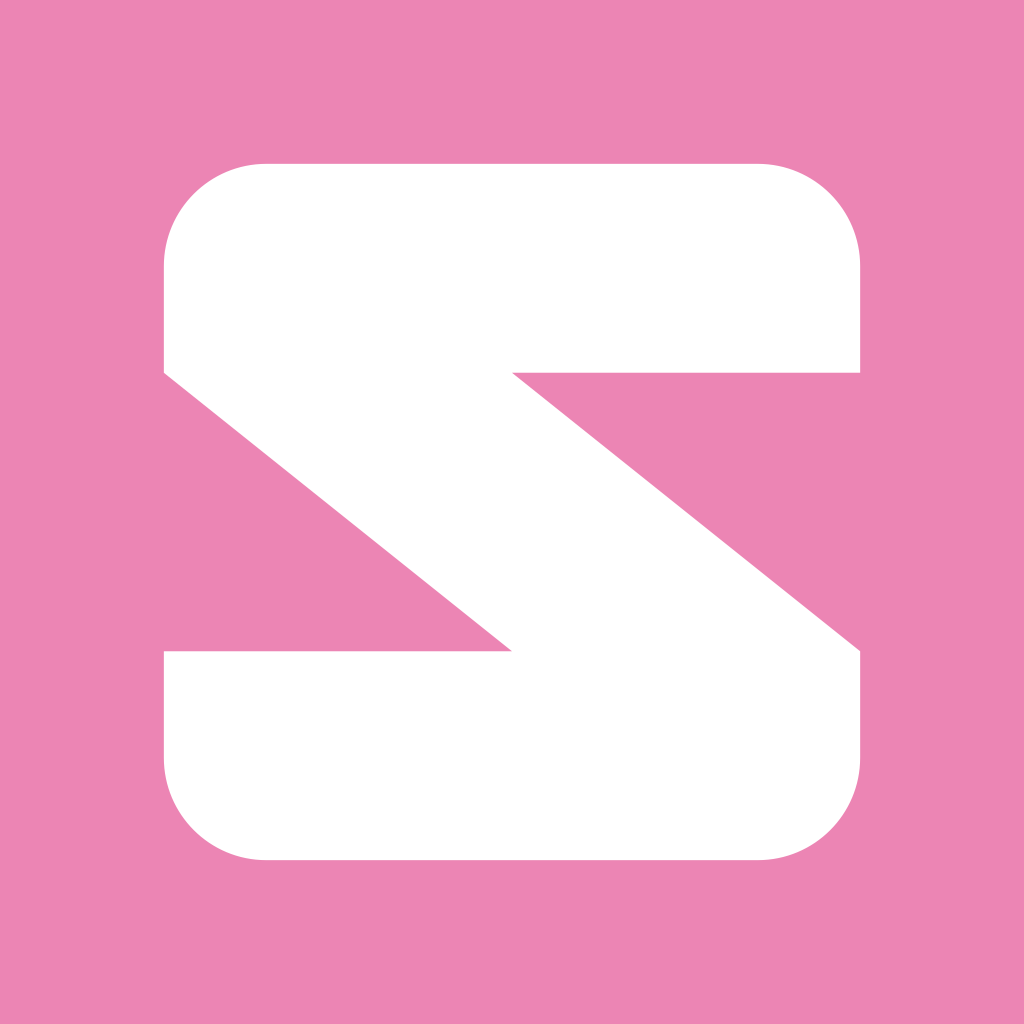
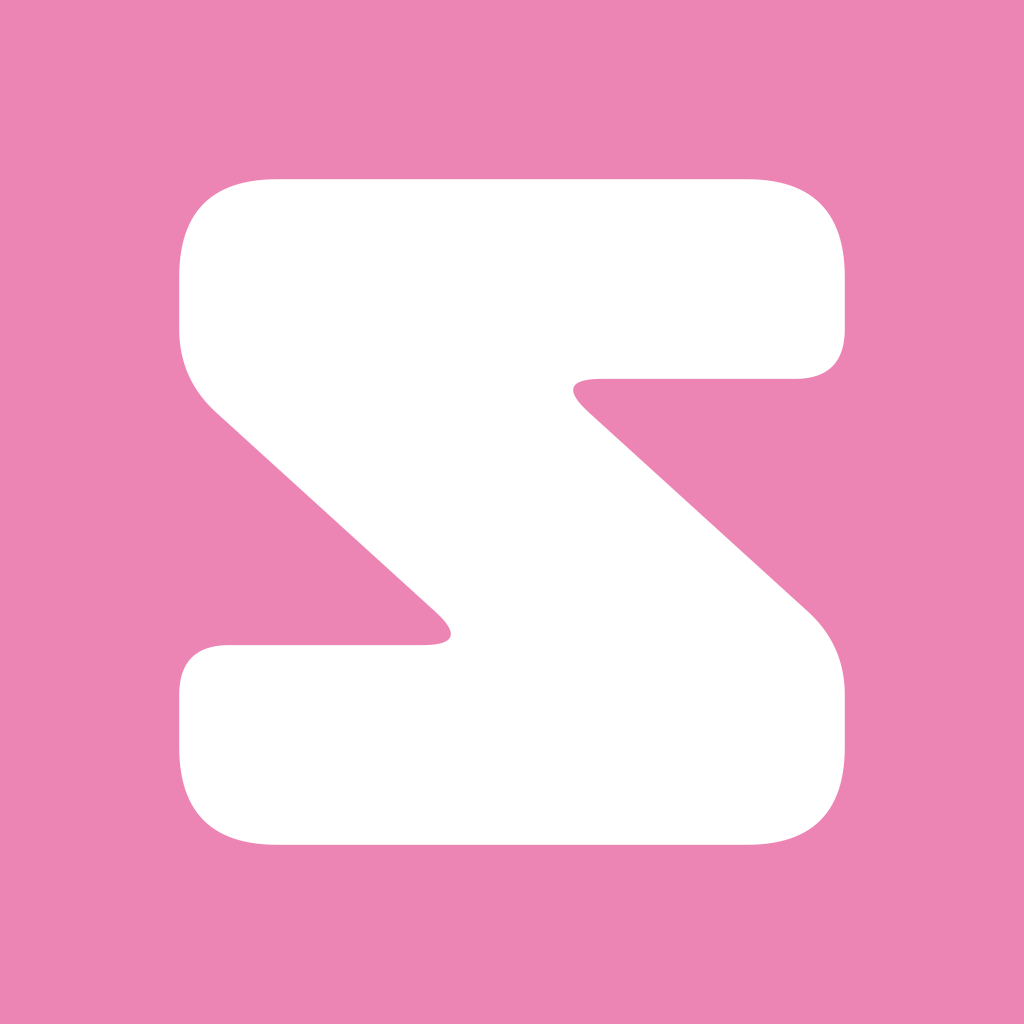
Smaller counters on the mark, and soften every corner
Two changes, both the owner's.

**The triangles shrink.** The slash goes from 0.50 to 0.56 of the width,
which is what the two triangular counters are cut out of. Rendered at
0.36 / 0.43 / 0.50 / 0.56 / 0.62: below 0.43 the letter is two bars joined
by a hairline, and past 0.56 the counters close up and it becomes a
lozenge, so 0.56 is the far end of what still reads as an S.

**Every corner rounds now, not just the outer four.** The interior angles
were knife-sharp on the rule that a block has no rounded inside corners.
That is true of a block and not of a letter cut from one: the two places
where the slash meets a bar are acute enough that a sharp point reads as a
rendering artefact rather than as a drawn edge. They take about half the
outer radius — enough to soften, not enough to lose the structure.

That needed a per-vertex radius and a clamp. Trimming a corner back by
more than half of either adjacent edge turns it inside out, and the acute
joins are exactly where that happens; the clamp is what lets them round at
all. Both the generator and `StrataMarkShape` apply it, and both sample the
same quadratic, so the SVGs, the app icon and the drawn shape stay one
drawing.

Restored `svg()`, which an earlier slice edit had deleted along with the
block it was replacing — the generator had been writing SVGs from a
function that no longer existed until this commit's first run caught it.

Verified: Debug, Release and generic/platform=iOS build; 74 unit tests
[…]

diff --git a/Strata/Views/StrataMark.swift b/Strata/Views/StrataMark.swift
@@ -3,8 +3,8 @@ import SwiftUI
 /// The Strata mark: a blocky S, cut from a rounded square.
 ///
 /// Two bars and a slash, in the same geometry the tower is built from — the
-/// outer corners take `BlockSurface`'s own 14.7% radius and every interior
-/// angle is a straight cut, because a block has no rounded inside corners.
+/// outer corners take `BlockSurface`'s own 14.7% radius and the interior
+/// angles take about half of it.
 ///
 /// **It is drawn, not shipped as an image.** The vector is generated by
 /// `tools/make_logo.py`, which also writes `brand/strata-mark*.svg` for
@@ -12,12 +12,17 @@ import SwiftUI
 /// `--swift` to update the constants below; do not edit them by hand.
 ///
 /// The proportions were chosen by rendering the slash at 0.36 / 0.43 / 0.50 /
-/// 0.57 and looking: below 0.43 the letter reads as two bars joined by a
-/// hairline, above 0.50 the counters close and it turns into a lozenge.
+/// 0.56 / 0.62 and looking: below 0.43 the letter reads as two bars joined by
+/// a hairline; past 0.56 the counters close and it turns into a lozenge.
+///
+/// **The interior angles round too**, at about half the outer radius. They
+/// were knife-sharp on the rule that a block has no rounded inside corners —
+/// true of a block, and not true of a letter cut from one, where the two
+/// acute corners came to points sharp enough to read as a rendering artefact
+/// rather than as a drawn edge.
 struct StrataMarkShape: Shape {
     func path(in rect: CGRect) -> Path {
         let side = min(rect.width, rect.height)
-        let radius = side * StrataMarkShape.cornerRatio
         let pts = StrataMarkShape.outline.map {
             CGPoint(x: rect.minX + $0.x * side, y: rect.minY + $0.y * side)
         }
@@ -27,15 +32,17 @@ struct StrataMarkShape: Shape {
         for (i, p) in pts.enumerated() {
             let prev = pts[(i - 1 + pts.count) % pts.count]
             let next = pts[(i + 1) % pts.count]
-            guard StrataMarkShape.roundedCorners.contains(i) else {
+            let radius = Self.radius(at: i, point: p, prev: prev, next: next, side: side)
+            guard radius > 0 else {
                 if started { path.addLine(to: p) } else { path.move(to: p); started = true }
                 continue
             }
-            // Trim back along both edges, then round between them. Same
-            // construction as the SVG, so the two cannot drift.
+            // Trim back along both edges, then round between them. The same
+            // quadratic the generator samples, so the Swift shape, the SVGs
+            // and the app icon are one drawing.
             func stepped(_ from: CGPoint, toward: CGPoint) -> CGPoint {
                 let dx = toward.x - from.x, dy = toward.y - from.y
-                let d = max(sqrt(dx * dx + dy * dy), 0.0001)
+                let d = max(hypot(dx, dy), 0.0001)
                 return CGPoint(x: from.x + dx / d * radius, y: from.y + dy / d * radius)
             }
             let a = stepped(p, toward: prev)
@@ -47,18 +54,35 @@ struct StrataMarkShape: Shape {
         return path
     }
 
+    /// The radius a corner can actually take.
+    ///
+    /// Trimming back by more than half of either adjacent edge turns the
+    /// corner inside out, and the slash meets the bars at a very acute angle —
+    /// this clamp is what lets the interior corners round at all.
+    private static func radius(at index: Int, point: CGPoint,
+                               prev: CGPoint, next: CGPoint, side: CGFloat) -> CGFloat {
+        let wanted = cornerRadii[index] * side
+        let a = hypot(point.x - prev.x, point.y - prev.y)
+        let b = hypot(point.x - next.x, point.y - next.y)
+        return min(wanted, a * 0.5, b * 0.5)
+    }
+
     // Generated by tools/make_logo.py --swift. Do not hand-edit.
     /// The mark's outline in a unit square, y DOWN.
     static let outline: [CGPoint] = [
         CGPoint(x: 0.0000, y: 0.0000), CGPoint(x: 1.0000, y: 0.0000), CGPoint(x: 1.0000, y: 0.3000),
-        CGPoint(x: 0.5000, y: 0.3000), CGPoint(x: 1.0000, y: 0.7000), CGPoint(x: 1.0000, y: 1.0000),
-        CGPoint(x: 0.0000, y: 1.0000), CGPoint(x: 0.0000, y: 0.7000), CGPoint(x: 0.5000, y: 0.7000),
+        CGPoint(x: 0.5600, y: 0.3000), CGPoint(x: 1.0000, y: 0.7000), CGPoint(x: 1.0000, y: 1.0000),
+        CGPoint(x: 0.0000, y: 1.0000), CGPoint(x: 0.0000, y: 0.7000), CGPoint(x: 0.4400, y: 0.7000),
         CGPoint(x: 0.0000, y: 0.3000)
     ]
-    /// Which vertices round — the four outer corners only.
-    static let roundedCorners: Set<Int> = [0, 1, 5, 6]
-    /// The block's corner radius, as a fraction of the side.
-    static let cornerRatio: CGFloat = 0.147
+    /// One wanted radius per vertex, as a fraction of the side.
+    /// The outer corners take the block's ratio; the interior
+    /// angles take a smaller one, so the counters read as cut
+    /// rather than as knife points.
+    static let cornerRadii: [CGFloat] = [
+        0.1470, 0.1470, 0.0750, 0.0750, 0.0750,
+        0.1470, 0.1470, 0.0750, 0.0750, 0.0750
+    ]
 }
 
 /// The app's mark, at a size.

diff --git a/tools/make_logo.py b/tools/make_logo.py
@@ -44,12 +44,19 @@ OUT = os.path.join(ROOT, "brand")
 # first attempt did that and produced a Z, because a wedge that tapers to a
 # point leaves the two bars joined by a hairline.
 BAR = 0.300          # bar height, top and bottom
-SLASH = 0.500        # the slash's HORIZONTAL thickness
-                     # Chosen by rendering 0.36 / 0.43 / 0.50 / 0.57 side by
-                     # side: below 0.43 the slash reads as a hairline joining
-                     # two bars, above 0.50 the counters start closing and the
-                     # letter turns into a solid lozenge.
+SLASH = 0.560        # the slash's HORIZONTAL thickness
+                     # Rendered at 0.36 / 0.43 / 0.50 / 0.56 / 0.62 side by
+                     # side. Below 0.43 the slash reads as a hairline joining
+                     # two bars; at 0.50 the two triangular counters were
+                     # bigger than the owner wanted; past 0.56 they close up
+                     # and the letter turns into a lozenge.
 RADIUS = 0.147       # the block's corner radius, as a fraction of the side
+INNER_RADIUS = 0.075 # every interior angle
+                     # The interior angles used to be knife-sharp, on the rule
+                     # that a block has no rounded inside corners. True of a
+                     # block; not true of a letter cut from one, where the two
+                     # acute corners where the slash meets the bars came to
+                     # points sharp enough to look like a rendering artefact.
 
 
 def mark_points():
@@ -73,70 +80,43 @@ def mark_points():
     return pts, {0, 1, 5, 6}
 
 
-def rounded_path(points, radius, round_only):
-    """An SVG path, rounding only the vertices named in `round_only`."""
-    n = len(points)
-    out = []
-    for i, p in enumerate(points):
-        prev = points[(i - 1) % n]
-        nxt = points[(i + 1) % n]
-        if i not in round_only:
-            out.append(("L", p))
-            continue
-        # Trim back along both edges by `radius`, then arc between.
-        def unit(a, b):
-            dx, dy = b[0] - a[0], b[1] - a[1]
-            d = math.hypot(dx, dy) or 1.0
-            return (dx / d, dy / d)
-        ui = unit(p, prev)
-        uo = unit(p, nxt)
-        a = (p[0] + ui[0] * radius, p[1] + ui[1] * radius)
-        b = (p[0] + uo[0] * radius, p[1] + uo[1] * radius)
-        out.append(("L", a))
-        out.append(("A", (radius, b)))
-    # Emit.
-    d = []
-    first = out[0]
-    d.append(f"M {first[1][0]:.5f} {first[1][1]:.5f}")
-    for kind, val in out[1:]:
-        if kind == "L":
-            d.append(f"L {val[0]:.5f} {val[1]:.5f}")
-        else:
-            r, b = val
-            d.append(f"A {r:.5f} {r:.5f} 0 0 1 {b[0]:.5f} {b[1]:.5f}")
+def rounded_path(points, radii):
+    """An SVG path, rounding each vertex by its own radius."""
+    flat = rounded_polygon(points, radii)
+    d = [f"M {flat[0][0]:.5f} {flat[0][1]:.5f}"]
+    for x, y in flat[1:]:
+        d.append(f"L {x:.5f} {y:.5f}")
     d.append("Z")
     return " ".join(d)
 
 
-def svg(size=512, ink="#EC85B4", ground="#FFFFFF", padding=0.16):
-    pts, outer = mark_points()
-    # Only the four OUTER corners round. Every inner vertex is a cut face,
-    # and a block has no rounded interior angles.
-    path = rounded_path(pts, RADIUS, outer)
-    scale = size * (1 - 2 * padding)
-    off = size * padding
-    return f'''<svg xmlns="http://www.w3.org/2000/svg" width="{size}" height="{size}" viewBox="0 0 {size} {size}">
-  <rect width="{size}" height="{size}" fill="{ground}"/>
-  <g transform="translate({off:.3f} {off:.3f}) scale({scale:.5f})">
-    <path d="{path}" fill="{ink}" fill-rule="nonzero"/>
-  </g>
-</svg>
-'''
+def _corner_radius(p, prev, nxt, wanted):
+    """A radius the corner can actually take.
+
+    Trimming back by more than half of either adjacent edge turns the corner
+    inside out. The slash meets the bars at a very acute angle, so this clamp
+    is what lets the interior corners round at all.
+    """
+    a = math.hypot(p[0] - prev[0], p[1] - prev[1])
+    b = math.hypot(p[0] - nxt[0], p[1] - nxt[1])
+    return min(wanted, a * 0.5, b * 0.5)
 
 
-def rounded_polygon(points, radius, round_only, steps=24):
+def rounded_polygon(points, radii, steps=28):
     """The outline as a flat point list, arcs sampled.
 
-    One polygon, so a rasteriser needs nothing but `polygon()`. The first
-    attempt at this painted the ground back into each corner and laid a disc
-    over the inside, which put four pink circles OUTSIDE the letter — a
-    reminder that "cheaper than deriving the arc" usually is not.
+    `radii` is one wanted radius per vertex; 0 leaves the corner sharp. One
+    polygon out, so a rasteriser needs nothing but `polygon()`. An earlier
+    attempt painted the ground back into each corner and laid a disc over the
+    inside, which put four pink circles OUTSIDE the letter — "cheaper than
+    deriving the arc" usually is not.
     """
     n = len(points)
     out = []
     for i, p in enumerate(points):
         prev, nxt = points[(i - 1) % n], points[(i + 1) % n]
-        if i not in round_only:
+        r = _corner_radius(p, prev, nxt, radii[i])
+        if r <= 0:
             out.append(p)
             continue
 
@@ -146,8 +126,8 @@ def rounded_polygon(points, radius, round_only, steps=24):
             return (dx / d, dy / d)
 
         ui, uo = unit(p, prev), unit(p, nxt)
-        a_pt = (p[0] + ui[0] * radius, p[1] + ui[1] * radius)
-        b_pt = (p[0] + uo[0] * radius, p[1] + uo[1] * radius)
+        a_pt = (p[0] + ui[0] * r, p[1] + ui[1] * r)
+        b_pt = (p[0] + uo[0] * r, p[1] + uo[1] * r)
         # Quadratic through the corner — the same curve `addQuadCurve` draws
         # on the Swift side, so the two renderings agree.
         for k in range(steps + 1):
@@ -159,6 +139,12 @@ def rounded_polygon(points, radius, round_only, steps=24):
     return out
 
 
+def radii_for(points, outer):
+    """Outer corners take the block's radius; every other vertex takes the
+    softer interior one."""
+    return [RADIUS if i in outer else INNER_RADIUS for i in range(len(points))]
+
+
 def render(ink=(0xEC, 0x85, 0xB4), ground=(255, 255, 255), size=1024, padding=0.175):
     """The mark, rasterised. Same polygon as the SVG, so they cannot drift."""
     from PIL import Image, ImageDraw
@@ -166,7 +152,7 @@ def render(ink=(0xEC, 0x85, 0xB4), ground=(255, 255, 255), size=1024, padding=0.
     W = size * SS
     img = Image.new("RGB", (W, W), ground)
     pts, outer = mark_points()
-    flat = rounded_polygon(pts, RADIUS, outer)
+    flat = rounded_polygon(pts, radii_for(pts, outer))
     scale = W * (1 - 2 * padding)
     off = W * padding
     ImageDraw.Draw(img).polygon(
@@ -174,10 +160,27 @@ def render(ink=(0xEC, 0x85, 0xB4), ground=(255, 255, 255), size=1024, padding=0.
     return img.resize((size, size), Image.LANCZOS)
 
 
+def svg(size=512, ink="#EC85B4", ground="#FFFFFF", padding=0.175):
+    """The mark as an SVG, from the same polygon everything else uses."""
+    pts, outer = mark_points()
+    path = rounded_path(pts, radii_for(pts, outer))
+    scale = size * (1 - 2 * padding)
+    off = size * padding
+    ground_rect = f'<rect width="{size}" height="{size}" fill="{ground}"/>' if ground else ""
+    return f'''<svg xmlns="http://www.w3.org/2000/svg" width="{size}" height="{size}" viewBox="0 0 {size} {size}">
+  {ground_rect}
+  <g transform="translate({off:.3f} {off:.3f}) scale({scale:.5f})">
+    <path d="{path}" fill="{ink}"/>
+  </g>
+</svg>
+'''
+
+
 def emit_swift():
     """The mark as a SwiftUI `Shape`, so the app draws the vector rather than
     shipping a bitmap of it."""
     pts, outer = mark_points()
+    radii = radii_for(pts, outer)
     print("    // Generated by tools/make_logo.py --swift. Do not hand-edit.")
     print("    /// The mark's outline in a unit square, y DOWN.")
     print("    static let outline: [CGPoint] = [")
@@ -185,10 +188,15 @@ def emit_swift():
     for i in range(0, len(rows), 3):
         print("        " + ", ".join(rows[i:i + 3]) + ("," if i + 3 < len(rows) else ""))
     print("    ]")
-    print(f"    /// Which vertices round — the four outer corners only.")
-    print(f"    static let roundedCorners: Set<Int> = {sorted(outer)}".replace("[", "[").replace("]", "]"))
-    print(f"    /// The block's corner radius, as a fraction of the side.")
-    print(f"    static let cornerRatio: CGFloat = {RADIUS}")
+    print("    /// One wanted radius per vertex, as a fraction of the side.")
+    print("    /// The outer corners take the block's ratio; the interior")
+    print("    /// angles take a smaller one, so the counters read as cut")
+    print("    /// rather than as knife points.")
+    print("    static let cornerRadii: [CGFloat] = [")
+    rr = [f"{r:.4f}" for r in radii]
+    for i in range(0, len(rr), 5):
+        print("        " + ", ".join(rr[i:i + 5]) + ("," if i + 5 < len(rr) else ""))
+    print("    ]")
 
 
 def main():

diff --git a/CLAUDE.md b/CLAUDE.md
@@ -201,9 +201,13 @@ method, every bug and what made it invisible, and the before/after numbers.
   straight cut. It is DRAWN — the geometry is generated by
   `tools/make_logo.py`, which writes `brand/strata-mark*.svg` for anything
   outside the app and `--swift` re-emits the constants. Do not hand-edit them
-  and do not ship a bitmap of it. The slash is 0.50 of the width: rendered at
-  0.36/0.43/0.50/0.57 side by side, below 0.43 it reads as two bars joined by
-  a hairline and above 0.50 the counters close.
+  and do not ship a bitmap of it. The slash is 0.56 of the width: rendered at
+  0.36/0.43/0.50/0.56/0.62 side by side, below 0.43 it reads as two bars
+  joined by a hairline and past 0.56 the counters close into a lozenge.
+  **The interior angles round too**, at about half the outer radius. They were
+  knife-sharp on the rule that a block has no rounded inside corners — true of
+  a block, and not of a letter cut from one, where the two acute corners came
+  to points sharp enough to read as a rendering artefact.
   The shape family is a common lettering idea, but the specific Pinterest
   drawing that prompted it is somebody's work — the block radius, the
   proportions and the slope are deliberately not it.
